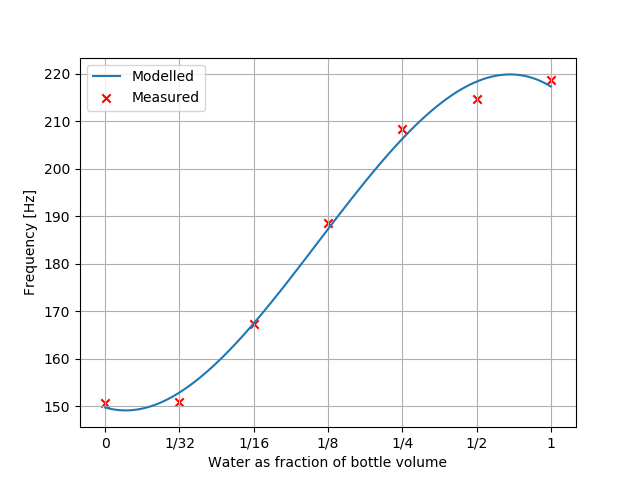
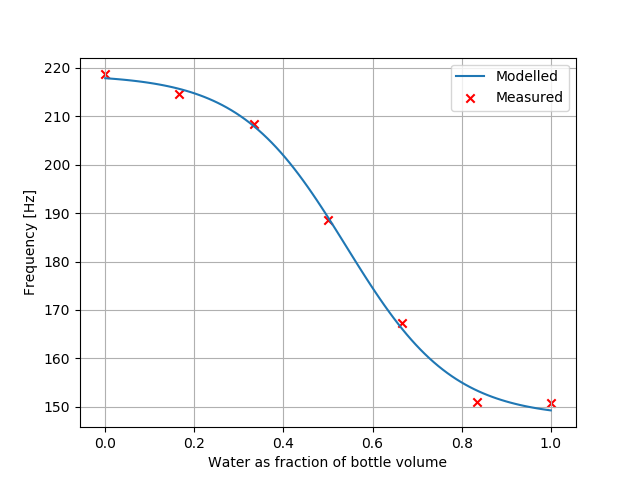
Update water -> frequency dependence model

diff --git a/hydroflask_water_mode_analysis.py b/hydroflask_water_mode_analysis.py
@@ -1,6 +1,7 @@
 # %%
 import numpy as np
 import matplotlib.pyplot as plt
+from scipy.optimize import curve_fit
 
 # %%
 mode_data = np.loadtxt('hydroflask_water_modes.csv', dtype=np.complex128)
@@ -9,59 +10,65 @@ mode_data = np.loadtxt('hydroflask_water_modes.csv', dtype=np.complex128)
 x = np.linspace(0, 1, 7)
 x_long = np.linspace(0, 1, 100)
 
+def rev_sigmoid(x, a, b, c, d):
+    return c * (1.0 - (1.0 / (1.0 + np.exp(-b*(x-a))))) + d
+
 # %%
-# plt.figure()
-# mode_freqs = np.abs(mode_data[:,0])
-# plt.scatter(x, mode_freqs, marker='x', color='r', label='Measured')
+plt.figure()
+mode_freqs = np.flip(np.abs(mode_data[:,0]))
+plt.scatter(x, mode_freqs, marker='x', color='r', label='Measured')
 
 # z_freq = np.polyfit(x, mode_freqs, 3)
 # p_freq = np.poly1d(z_freq)
 # plt.plot(x_long, p_freq(x_long), label='Modelled')
+popt, pcov = curve_fit(rev_sigmoid, x, mode_freqs, bounds=([0, 1, -100, -200], [1, 100, 100, 200]))
+plt.plot(x_long, rev_sigmoid(x_long, *popt), label='Modelled')
 # print('Freq function:')
 # print(p_freq)
+print(popt)
 
-# # plt.title('First mode frequency vs water amount')
-# plt.ylabel('Frequency [Hz]')
-# plt.xlabel('Water as fraction of bottle volume')
-# plt.xticks(x, ['0', '1/32', '1/16', '1/8', '1/4', '1/2', '1'])
-# plt.legend()
-# plt.grid()
-# plt.savefig('Figures/Water_Freq.png')
-
-# %%
-plt.figure()
-colors = ['r', 'k']
-for i in range(2):
-    mode_damps = np.abs(mode_data[:,40+i])
-    tau_gains = np.exp(-1.0 / mode_damps)
-    t60s = np.log(0.001) / (48000 * np.log(tau_gains))
-    plt.scatter(x, t60s, label='Mode #{}'.format(i+1), marker='x', color=colors[i])
-
-mode_damps1 = np.mean(np.abs(mode_data[:,40:41]), axis=1)
-mode_damps2 = np.mean(np.abs(mode_data[:,41:42]), axis=1)
-mode_damps_avg = np.mean(np.abs(mode_data[:,40:42]), axis=1)
-# # plt.plot(x, mode_damps, label='Avg')
-
-def model_mode_damp(mode_damps, label):
-    z_damp = np.polyfit(x, mode_damps, 4)
-    p_damp = np.poly1d(z_damp)
-    tau_gains = np.exp(-1.0 / p_damp(x_long))
-    t60s = np.log(0.001) / (48000 * np.log(tau_gains))
-    plt.plot(x_long, t60s, label=label)
-    # print('Damp function:')
-    # print(p_damp)
-
-model_mode_damp(mode_damps1, 'Mode 1 Model')
-model_mode_damp(mode_damps2, 'Mode 2 Model')
-model_mode_damp(mode_damps_avg, 'Avg Model')
-
-plt.legend()
-# plt.title('First 2 modes damping vs water amount')
-plt.ylabel(r'$T_{60}$ [seconds]')
+# plt.title('First mode frequency vs water amount')
+plt.ylabel('Frequency [Hz]')
 plt.xlabel('Water as fraction of bottle volume')
 plt.xticks(x, ['0', '1/32', '1/16', '1/8', '1/4', '1/2', '1'])
+plt.legend()
 plt.grid()
-plt.savefig('Figures/Water_Damping.png')
+plt.savefig('Figures/Water_Freq.png')
+
+# %%
+# plt.figure()
+# colors = ['r', 'k']
+# for i in range(2):
+#     mode_damps = np.abs(mode_data[:,40+i])
+#     tau_gains = np.exp(-1.0 / mode_damps)
+#     t60s = np.log(0.001) / (48000 * np.log(tau_gains))
+#     plt.scatter(x, t60s, label='Mode #{}'.format(i+1), marker='x', color=colors[i])
+
+# mode_damps1 = np.mean(np.abs(mode_data[:,40:41]), axis=1)
+# mode_damps2 = np.mean(np.abs(mode_data[:,41:42]), axis=1)
+# mode_damps_avg = np.mean(np.abs(mode_data[:,40:42]), axis=1)
+# # # plt.plot(x, mode_damps, label='Avg')
+
+# def model_mode_damp(mode_damps, label):
+#     z_damp = np.polyfit(x, mode_damps, 4)
+#     p_damp = np.poly1d(z_damp)
+#     tau_gains = np.exp(-1.0 / p_damp(x_long))
+#     t60s = np.log(0.001) / (48000 * np.log(tau_gains))
+#     plt.plot(x_long, t60s, label=label)
+#     # print('Damp function:')
+#     # print(p_damp)
+
+# model_mode_damp(mode_damps1, 'Mode 1 Model')
+# model_mode_damp(mode_damps2, 'Mode 2 Model')
+# model_mode_damp(mode_damps_avg, 'Avg Model')
+
+# plt.legend()
+# # plt.title('First 2 modes damping vs water amount')
+# plt.ylabel(r'$T_{60}$ [seconds]')
+# plt.xlabel('Water as fraction of bottle volume')
+# plt.xticks(x, ['0', '1/32', '1/16', '1/8', '1/4', '1/2', '1'])
+# plt.grid()
+# plt.savefig('Figures/Water_Damping.png')
 
 # %%
 plt.show()

diff --git a/WaterbottleSynth/Source/ModalVoice.cpp b/WaterbottleSynth/Source/ModalVoice.cpp
@@ -4,7 +4,7 @@ ModalVoice::ModalVoice()
 {
     for (int ch = 0; ch < 2; ++ch)
     {
-        mode[0][ch]  = std::make_unique<BaseMode> ([] (float x) { return -220*x*x*x + 315*x*x - 27.44f*x + 149.8f; }, [] (float x) { return (float) -1.471e6*x*x*x*x + (float) 3.345e6*x*x*x - (float) 2.392e6*x*x + (float) 5.137e5*x + (float) 2.49e4; }, std::complex<float> (1.6375e-4, 8.2776e-4), -0.0001141f);
+        mode[0][ch]  = std::make_unique<BaseMode> ([] (float x) { return 70.911258f * (1.0f - (1.0f / (1.0f + exp (-8.3632f * (x - 0.5404f))))) + 147.7403f; }, [] (float x) { return (float) -1.471e6*x*x*x*x + (float) 3.345e6*x*x*x - (float) 2.392e6*x*x + (float) 5.137e5*x + (float) 2.49e4; }, std::complex<float> (1.6375e-4, 8.2776e-4), -0.0001141f);
         mode[1][ch]  = std::make_unique<BaseMode> ([] (float) { return 735.0f; }, [] (float x) { return (float) -1.471e6*x*x*x*x + (float) 3.345e6*x*x*x - (float) 2.392e6*x*x + (float) 5.137e5*x + (float) 2.49e4; }, std::complex<float> (2.4356e-3, -1.492e-3), -0.0001210f);
         mode[2][ch]  = std::make_unique<BaseMode> (927.3f,  21474.8f, std::complex<float> (1.4482e-3, 1.9481e-3), -0.0001877f);
         mode[3][ch]  = std::make_unique<BaseMode> (977.0f,  21694.8f, std::complex<float> (5.4375e-4, 2.6515e-3), -0.0001502f);
